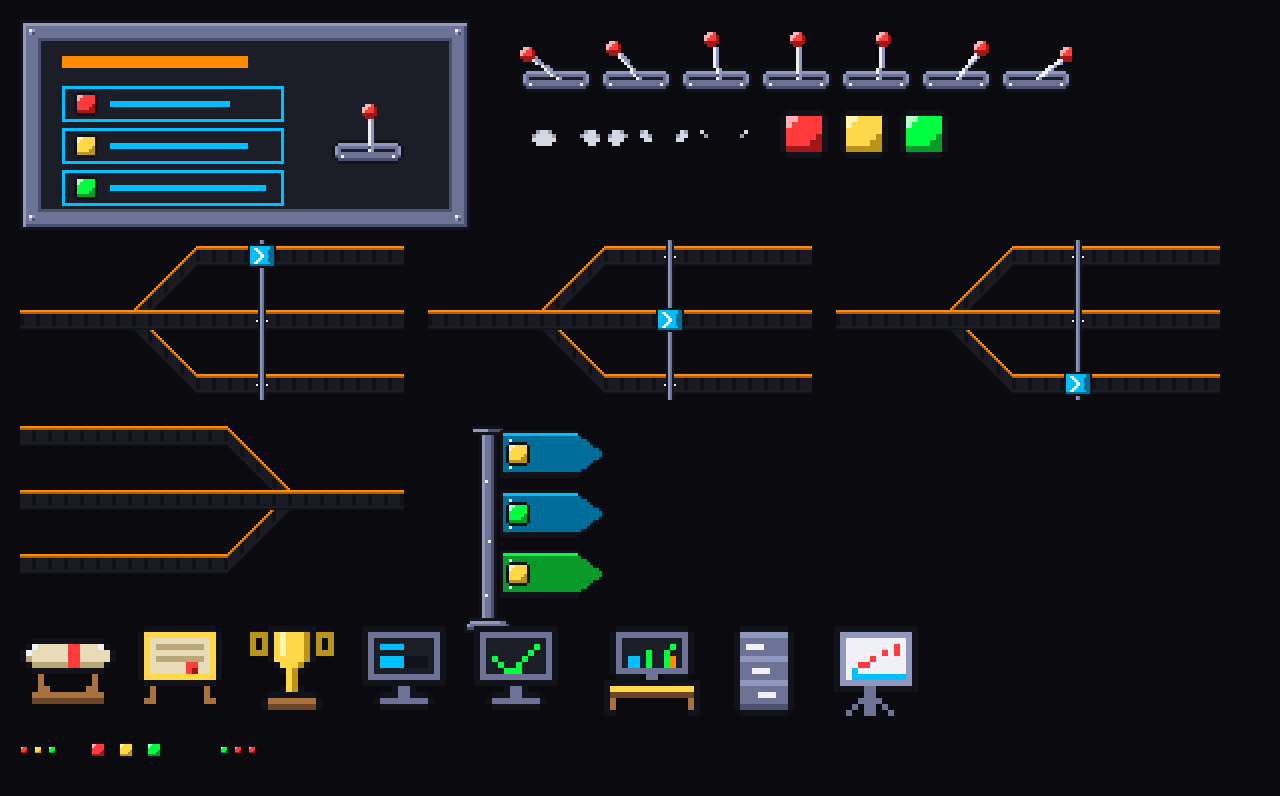
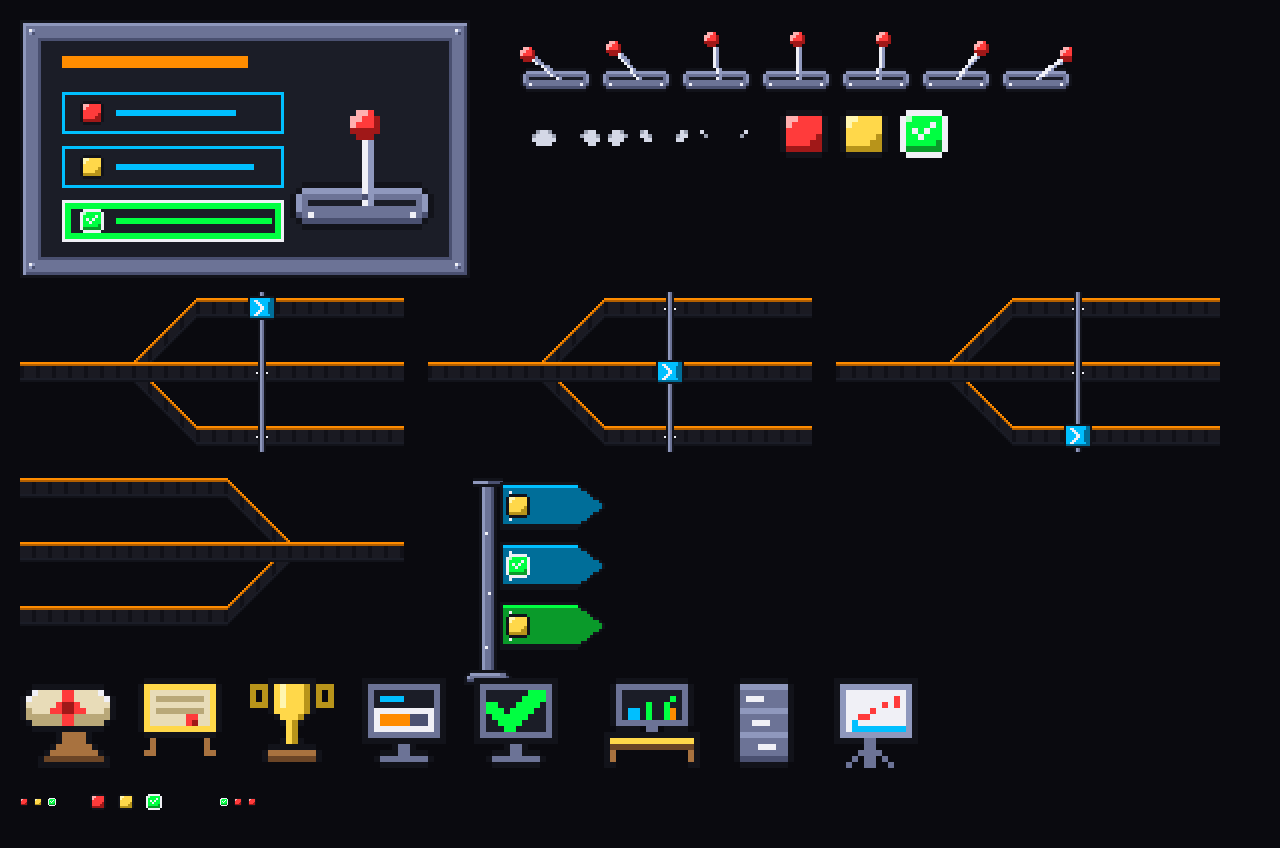
Step 3.1: art revisions (bigger lever in the box, colour-blind-safe selected light, clearer course screens, bigger diploma)

diff --git a/art/themes.ts b/art/themes.ts
@@ -11,20 +11,20 @@ export const educationProps = {
   diploma: [
     "................",
     "................",
-    "................",
     "..dddddddddddd..",
-    ".dwtttttrrtttwd.",
-    "dwttttttrrtttttd",
-    "dTttttttrrtttttd",
-    ".dTTTTTTrrTTTTd.",
+    ".dwttttrrttttwd.",
+    "dwtttttrrtttttwd",
+    "dtttttrRRrtttttd",
+    "dTtttrrRRrrtttTd",
+    "dTTTTTTrrTTTTTTd",
+    ".dTTTTTrrTTTTTd.",
     "..dddddddddddd..",
-    "...u........u...",
-    "...u........u...",
-    "...uu......uu...",
-    "..uuuuuuuuuuuu..",
-    "..UUUUUUUUUUUU..",
-    "................",
-    "................",
+    "......duuuud....",
+    "......duuuud....",
+    ".....duuuuuud...",
+    "....duuuuuuuud..",
+    "...dUUUUUUUUUUd.",
+    "...dddddddddddd.",
   ],
   /** certificate: framed certificate on an easel */
   certificate: [
@@ -72,35 +72,35 @@ export const educationProps = {
     ".dMkkkkkkkkkkMd.",
     ".dMkcccckkkkkMd.",
     ".dMkkkkkkkkkkMd.",
-    ".dMkccccddddkMd.",
-    ".dMkccccddddkMd.",
-    ".dMkkkkkkkkkkMd.",
+    ".dMwwwwwwwwwwMd.",
+    ".dMwooooonnnwMd.",
+    ".dMwooooonnnwMd.",
+    ".dMwwwwwwwwwwMd.",
     ".dMMMMMMMMMMMMd.",
     ".dddddddddddddd.",
     "......dMMd......",
     "....dddMMddd....",
     "...dMMMMMMMMd...",
     "....dddddddd....",
-    "................",
   ],
   /** finished course: the same screen, bar full and a check */
   done: [
     "................",
     ".dddddddddddddd.",
     ".dMMMMMMMMMMMMd.",
-    ".dMkkkkkkkkkkMd.",
-    ".dMkkkkkkkkgkMd.",
-    ".dMkkkkkkkgkkMd.",
-    ".dMkgkkkkgkkkMd.",
-    ".dMkkgkkgkkkkMd.",
-    ".dMkkkgggkkkkMd.",
+    ".dMkkkkkkkgggMd.",
+    ".dMkkkkkkggggMd.",
+    ".dMggkkkggggkMd.",
+    ".dMgggkggggkkMd.",
+    ".dMkggggggkkkMd.",
+    ".dMkkggggkkkkMd.",
+    ".dMkkkggkkkkkMd.",
     ".dMMMMMMMMMMMMd.",
     ".dddddddddddddd.",
     "......dMMd......",
     "....dddMMddd....",
     "...dMMMMMMMMd...",
     "....dddddddd....",
-    "................",
   ],
 } as const;
 

diff --git a/art/junction.ts b/art/junction.ts
@@ -51,7 +51,9 @@ const put = (cv: Cv, x: number, y: number, c: string) => {
 // ---------- signal lights (8x8): a dark housing with one lamp ----------
 const LAMP = [".dddddd.", "dhhaaaad", "dhaaaaad", "daaaaaad", "daaaaasd", "daaaassd", "dssssssd", ".dddddd."];
 const lamp = (a: string, h: string, s: string) => LAMP.map((r) => [...r].map((c) => (c === "a" ? a : c === "h" ? h : c === "s" ? s : c)).join(""));
-export const lights = { red: lamp("r", "p", "R"), yellow: lamp("y", "q", "Y"), green: lamp("g", "j", "G") };
+/** Green means "selected / visited" and always carries two extra cues besides its colour: a white ring and a white check mark. */
+const GREEN_SELECTED = [".wwwwww.", "wjgggggw", "wggggwgw", "wgwgwggw", "wggwgggw", "wgggggGw", "wGGGGGGw", ".wwwwww."];
+export const lights = { red: lamp("r", "p", "R"), yellow: lamp("y", "q", "Y"), green: GREEN_SELECTED };
 
 // ---------- panel frame (24x24, 8px border: used with border-image slice 8) ----------
 export const panel = (() => {
